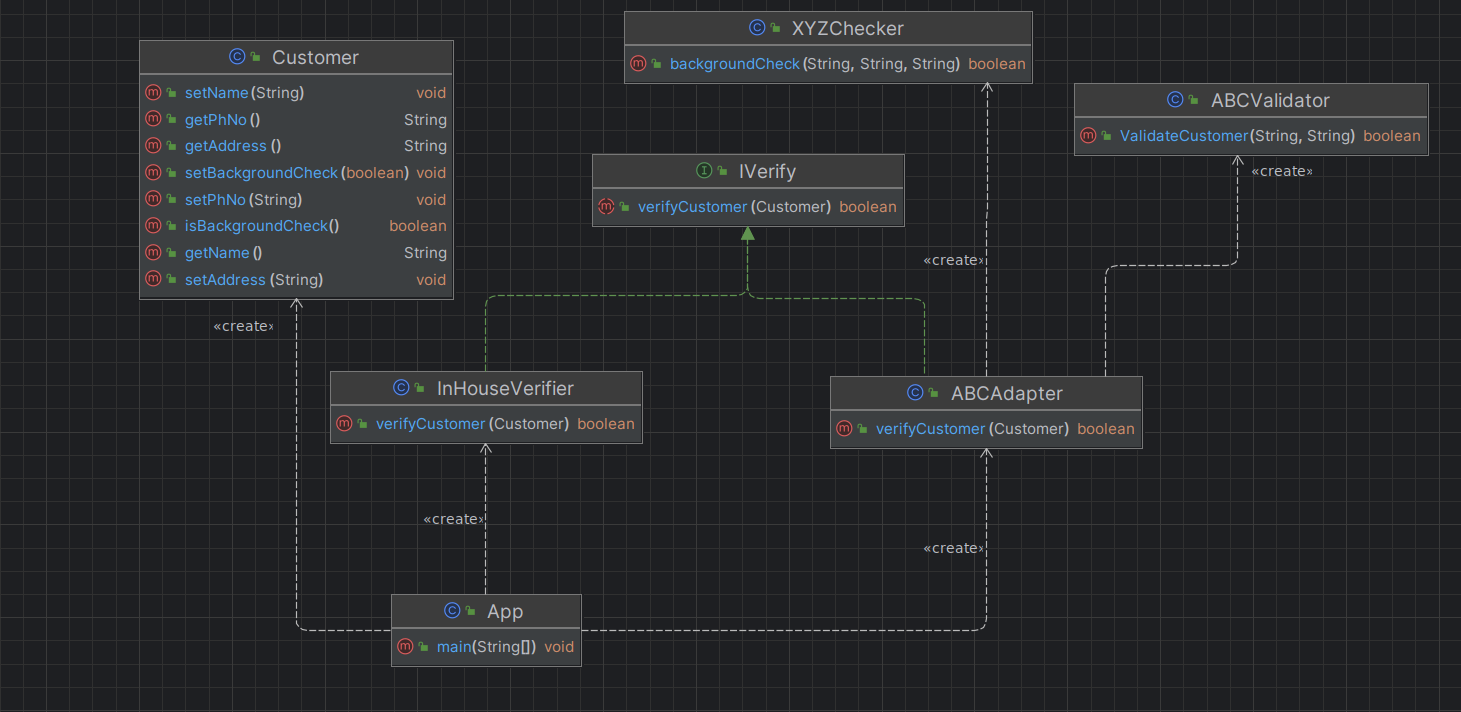
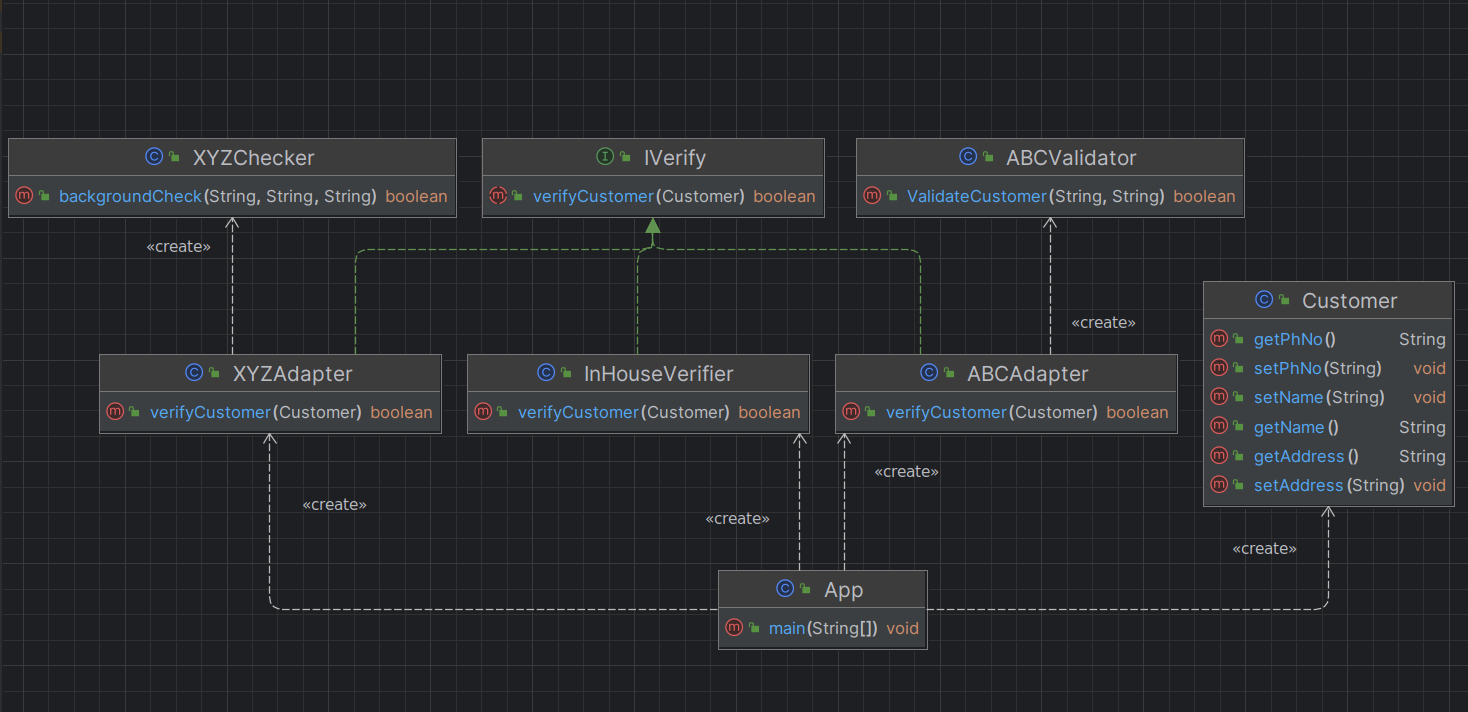
week 4 part 3 changes

diff --git a/cs655.hw3/src/main/java/cs655/hw4/part3/App.java b/cs655.hw3/src/main/java/cs655/hw4/part3/App.java
@@ -13,8 +13,10 @@ public class App {
      *
      * The ABCvalidator and XYXchecker are two classes that are external packages for customer verifications.
      *
-     * The ABC adaptor class is the middleware class that calls the external package to make use of their respective functionality such as
-     * validating phone numnber, name and performing background checks.
+     * The ABC adaptor class is the middleware class that calls the external package ABCValidator to make use of their  functionality such as
+     * validating phone number.
+     *
+     * The XYZ Checker class is the middleware class that calls the external package XYZAdapter to make use of their functionality such running background checks.
      *
      */
 
@@ -24,11 +26,13 @@ public class App {
         C1.setName("Alice");
         C1.setPhNo("222-333-4444");
         C1.setAddress("123 Main St, Boston, MA");
-        C1.setBackgroundCheck(false);
 
         IVerify CustC1Name = new InHouseVerifier();
         if (CustC1Name.verifyCustomer(C1)) {
             System.out.println("Doing in house verification for " + C1.getName());
+        }
+        if (!CustC1Name.verifyCustomer(C1)) {
+            System.out.println("Verification failed for " + C1.getName());
         }
 
         IVerify CustC1PhNo = new ABCAdapter();
@@ -36,10 +40,17 @@ public class App {
             System.out.println(" ABC third-party verification for " +C1.getName() + ", " + C1.getPhNo());
         }
 
-        C1.setBackgroundCheck(true);
-        IVerify CustC1Address = new ABCAdapter();
+        if (!CustC1PhNo.verifyCustomer(C1)) {
+            System.out.println(" ABC third-party verification failed for " +C1.getName() + ", " + C1.getPhNo());
+        }
+
+        IVerify CustC1Address = new XYZAdapter();
         if(CustC1Address.verifyCustomer(C1)) {
             System.out.println(" XYZ third-party background verification for " +C1.getName() + ", " + C1.getAddress());
+        }
+
+        if(!CustC1Address.verifyCustomer(C1)) {
+            System.out.println(" XYZ third-party background verification failed for " +C1.getName() + ", " + C1.getAddress());
         }
     }
 }

diff --git a/cs655.hw3/src/main/java/cs655/hw4/part3/XYZAdapter.java b/cs655.hw3/src/main/java/cs655/hw4/part3/XYZAdapter.java
@@ -1,11 +1,10 @@
 package cs655.hw4.part3;
 
-public class ABCAdapter implements IVerify {
-
+public class XYZAdapter implements IVerify {
     @Override
     public boolean verifyCustomer(Customer cust) {
-        ABCValidator ABC = new ABCValidator();
-        if (ABC.ValidateCustomer(cust.getName(), cust.getPhNo())) {
+        XYZChecker XYZ = new XYZChecker();
+        if (XYZ.backgroundCheck(cust.getName(), cust.getPhNo(), cust.getAddress())){
             return true;
         }
         else {

diff --git a/cs655.hw3/src/main/java/cs655/hw4/part3/Customer.java b/cs655.hw3/src/main/java/cs655/hw4/part3/Customer.java
@@ -4,15 +4,6 @@ public class Customer {
     String name;
     String  phNo;
     String address;
-    boolean backgroundCheck;
-
-    public boolean isBackgroundCheck() {
-        return backgroundCheck;
-    }
-
-    public void setBackgroundCheck(boolean backgroundCheck) {
-        this.backgroundCheck = backgroundCheck;
-    }
 
     public String getName() {
         return name;

diff --git a/cs655.hw3/src/main/java/cs655/hw3/part2/Director.java b/cs655.hw3/src/main/java/cs655/hw3/part2/Director.java
@@ -1,7 +1,10 @@
 package cs655.hw3.part2;
 
 public class Director {
-
+    /**
+     * Use only one constructor in the directory class: This is a correction!!
+     * @param builder
+     */
     public void buildBoA(Builder builder) {
          builder.createHeader("Creating Bank of America Header...")
                 .createSidebar("Creating Bank of America Sidebar...")

diff --git a/cs655.hw3/src/main/java/cs655/hw4/part3/ABCValidator.java b/cs655.hw3/src/main/java/cs655/hw4/part3/ABCValidator.java
@@ -5,6 +5,9 @@ public class ABCValidator {
         if (name == "Alice" && phNo == "222-333-4444") {
             return true;
         }
-        return false;
+        else {
+            return false;
+        }
+
     }
 }
